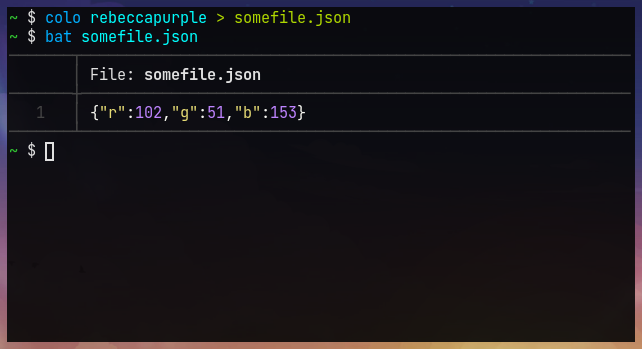
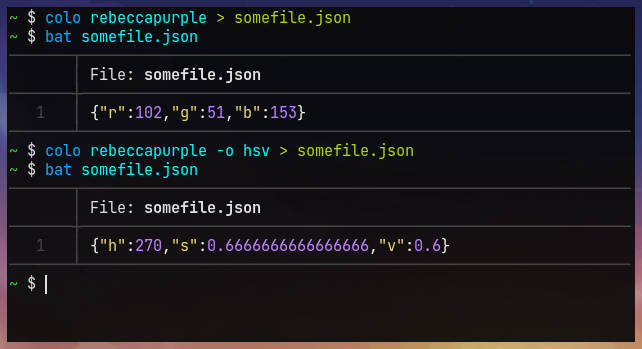
Implement json output for different color spaces

diff --git a/src/color/json.rs b/src/color/json.rs
@@ -1,5 +1,50 @@
-use crate::color::space;
+use crate::color::Color;
 
-pub fn from_rgb(rgb: space::Rgb) -> String {
-    format!(r#"{{"r":{},"g":{},"b":{}}}"#, rgb.r, rgb.g, rgb.b)
+macro_rules! build_string {
+    ($color:expr, $i1:ident, $i2:ident, $i3:ident) => {
+        format!(
+            concat!(
+                "{{\"",
+                stringify!($i1),
+                "\":{},\"",
+                stringify!($i2),
+                "\":{},\"",
+                stringify!($i3),
+                "\":{}}}"
+            ),
+            $color.$i1, $color.$i2, $color.$i3
+        )
+    };
+    ($color:expr, $i1:ident, $i2:ident, $i3:ident, $i4:ident) => {
+        format!(
+            concat!(
+                "{{\"",
+                stringify!($i1),
+                "\":{},\"",
+                stringify!($i2),
+                "\":{},\"",
+                stringify!($i3),
+                "\":{},\"",
+                stringify!($i4),
+                "\":{}}}"
+            ),
+            $color.$i1, $color.$i2, $color.$i3, $color.$i4
+        )
+    };
+}
+
+pub fn from_color(color: Color) -> String {
+    match color {
+        Color::Rgb(color) => build_string!(color, r, g, b),
+        Color::Cmy(color) => build_string!(color, c, m, y),
+        Color::Cmyk(color) => build_string!(color, c, m, y, k),
+        Color::Hsv(color) => build_string!(color, h, s, v),
+        Color::Hsl(color) => build_string!(color, h, s, l),
+        Color::Lch(color) => build_string!(color, l, c, h),
+        Color::Luv(color) => build_string!(color, l, u, v),
+        Color::Lab(color) => build_string!(color, l, a, b),
+        Color::HunterLab(color) => build_string!(color, l, a, b),
+        Color::Xyz(color) => build_string!(color, x, y, z),
+        Color::Yxy(color) => build_string!(color, y1, x, y2),
+    }
 }

diff --git a/src/show_color.rs b/src/show_color.rs
@@ -9,7 +9,9 @@ use crate::color::{hex, html, json, space, Color, ColorSpace};
 pub fn show(color: Color, out: ColorSpace) -> Result<()> {
     let rgb = color.to_rgb();
     let input = color.to_string();
-    let converted = color.to_color_space(out).to_string();
+    let converted = color.to_color_space(out);
+    let json = json::from_color(converted);
+    let converted = converted.to_string();
 
     let second_str = if input != converted {
         converted
@@ -17,18 +19,20 @@ pub fn show(color: Color, out: ColorSpace) -> Result<()> {
         hex::from_rgb(rgb)
     };
 
-    show_impl(rgb, input + " ~ " + &second_str)
+    show_impl(rgb, input + " ~ " + &second_str, json)
 }
 
 pub fn show_hex_or_html(color: &str, out: ColorSpace) -> Result<()> {
     let rgb = html::get(color).map_or_else(|| hex::parse(color), Ok)?;
     let input = hex::from_rgb(rgb);
-    let converted = Color::Rgb(rgb).to_color_space(out).to_string();
+    let converted = Color::Rgb(rgb).to_color_space(out);
+    let json = json::from_color(converted);
+    let converted = converted.to_string();
 
-    show_impl(rgb, input + " ~ " + &converted)
+    show_impl(rgb, input + " ~ " + &converted, json)
 }
 
-fn show_impl(rgb: space::Rgb, msg: String) -> Result<()> {
+fn show_impl(rgb: space::Rgb, msg: String, json: String) -> Result<()> {
     let crossterm_color = style::Color::Rgb {
         r: rgb.r.round() as u8,
         g: rgb.g.round() as u8,
@@ -46,7 +50,7 @@ fn show_impl(rgb: space::Rgb, msg: String) -> Result<()> {
             ResetColor,
         )?;
     } else {
-        queue!(stdout, Print(json::from_rgb(rgb)))?;
+        queue!(stdout, Print(json))?;
     }
 
     Ok(())
